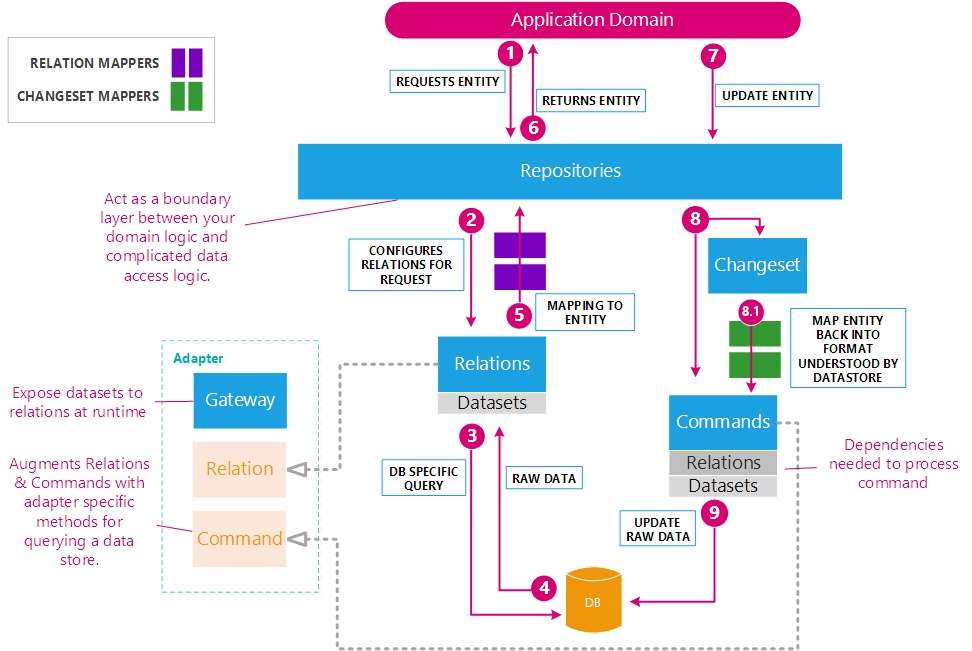
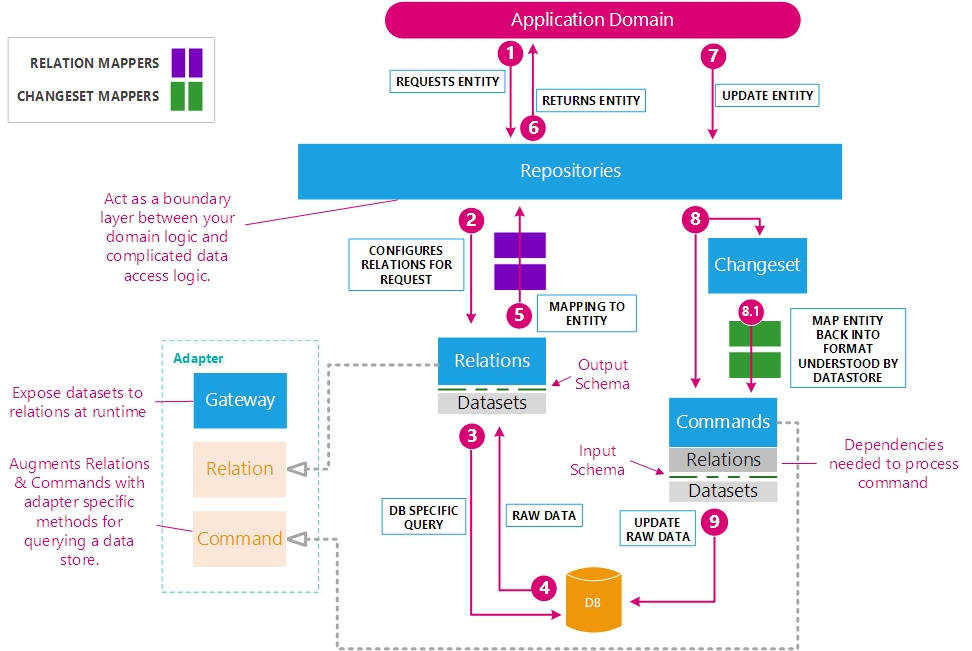
[learn] Implement solnics proposed changes in core/core-concepts doc

diff --git a/source/4.0/learn/getting-started/core-concepts.html.md b/source/4.0/learn/getting-started/core-concepts.html.md
@@ -43,25 +43,34 @@ is a basic explanation of each component.
             selections, the relations `#each` method is called which triggers
             the <mark>dataset</mark> to fetch the data.
 
-**Step 4.** Raw data is collected from the datastore and passed up to the relation.
+**Step 4.** Raw data in the form of tuples are collected from the datastore and
+            returned to the relation. Before proceeding each tuple is passed
+            through an <mark>output schema</mark>.
 
-**Step 5.** The relation, if mappers are configured, maps the raw data into an
-            output entity.
+**Step 5.** The relation, if mappers are configured, maps the tuples into an
+            output entity/entities.
 
-**Step 6.** The repository passes the entity on through to the Application Domain.
+**Step 6.** The repository passes the entity/entities on through to the
+            Application Domain.
 
 ### Writing Data
 
-**Step 7.** Application Domain requests an entity to be updated.
+Writing data with ROM is fundamentally a process of applying commands to relations
+in order to modify the stored data. 
 
-**Step 8.** In a method on the repository, you can either use changesets or direct
-            commands to make changes to the datastore.
+**Step 7.** Application Domain has a need to update an entity.
+
+**Step 8.** The repository, accepting either an entity object or a raw `Hash`
+            representing the entity configures either a changeset or direct
+            command on relation to make changes to the datastore.
 
 **Step 8.1.** Before the Changeset passes itself to the underlying command, you
               can map the Changeset data into a structure that's more akin to what
               your datastore looks like.
 
-**Step 9.** Command executes against the datastore and updates the data.
+**Step 9.** Command processes one or more tuples through the
+            <mark>input schema</mark> then executes against the datastore which
+            updates the data.
 
 
 ## Repositories
@@ -93,13 +102,8 @@ attributes and their values. In ROM it is an object that responds to `#each`
 which yields hashes. It is backed by a [dataset object](#datasets) provided by
 the adapter.
 
-<!-- Relations provide methods called <mark>relation views</mark> which are used
-to expose a clear API for reading data while also hiding details on how that
-data is actually read. A powerful by-product of relation views is that they're
-*composable* and can be chained together to product flexible queries that
-take advantage of your datastore. -->
 
-A example of relations are tables in a SQL server. Tables can reference
+An example of relations are tables in a SQL server. Tables can reference
 other tables and sometimes all of the pieces for some "view" of the data are
 spread out among two or more tables (think Multi Table Inheritance). In
 situations like this ROM really shines because relations can be created for
